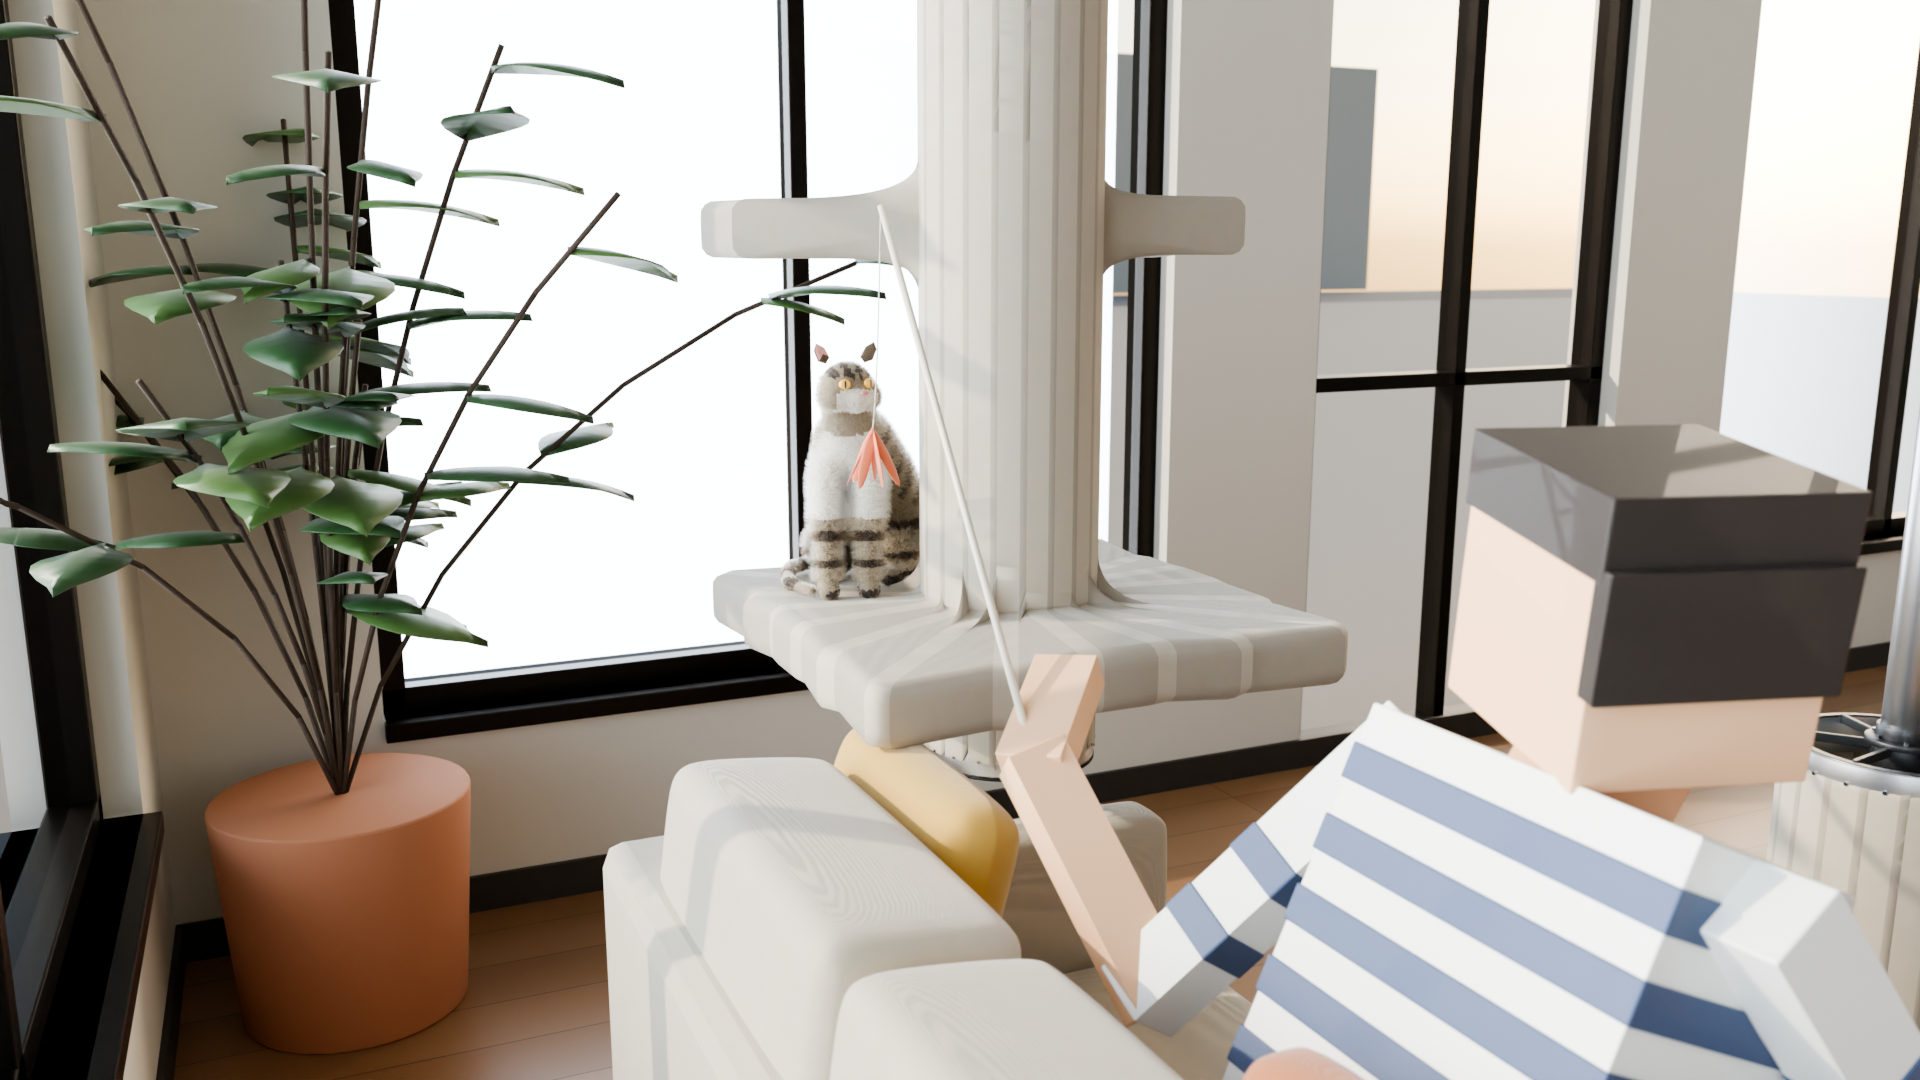
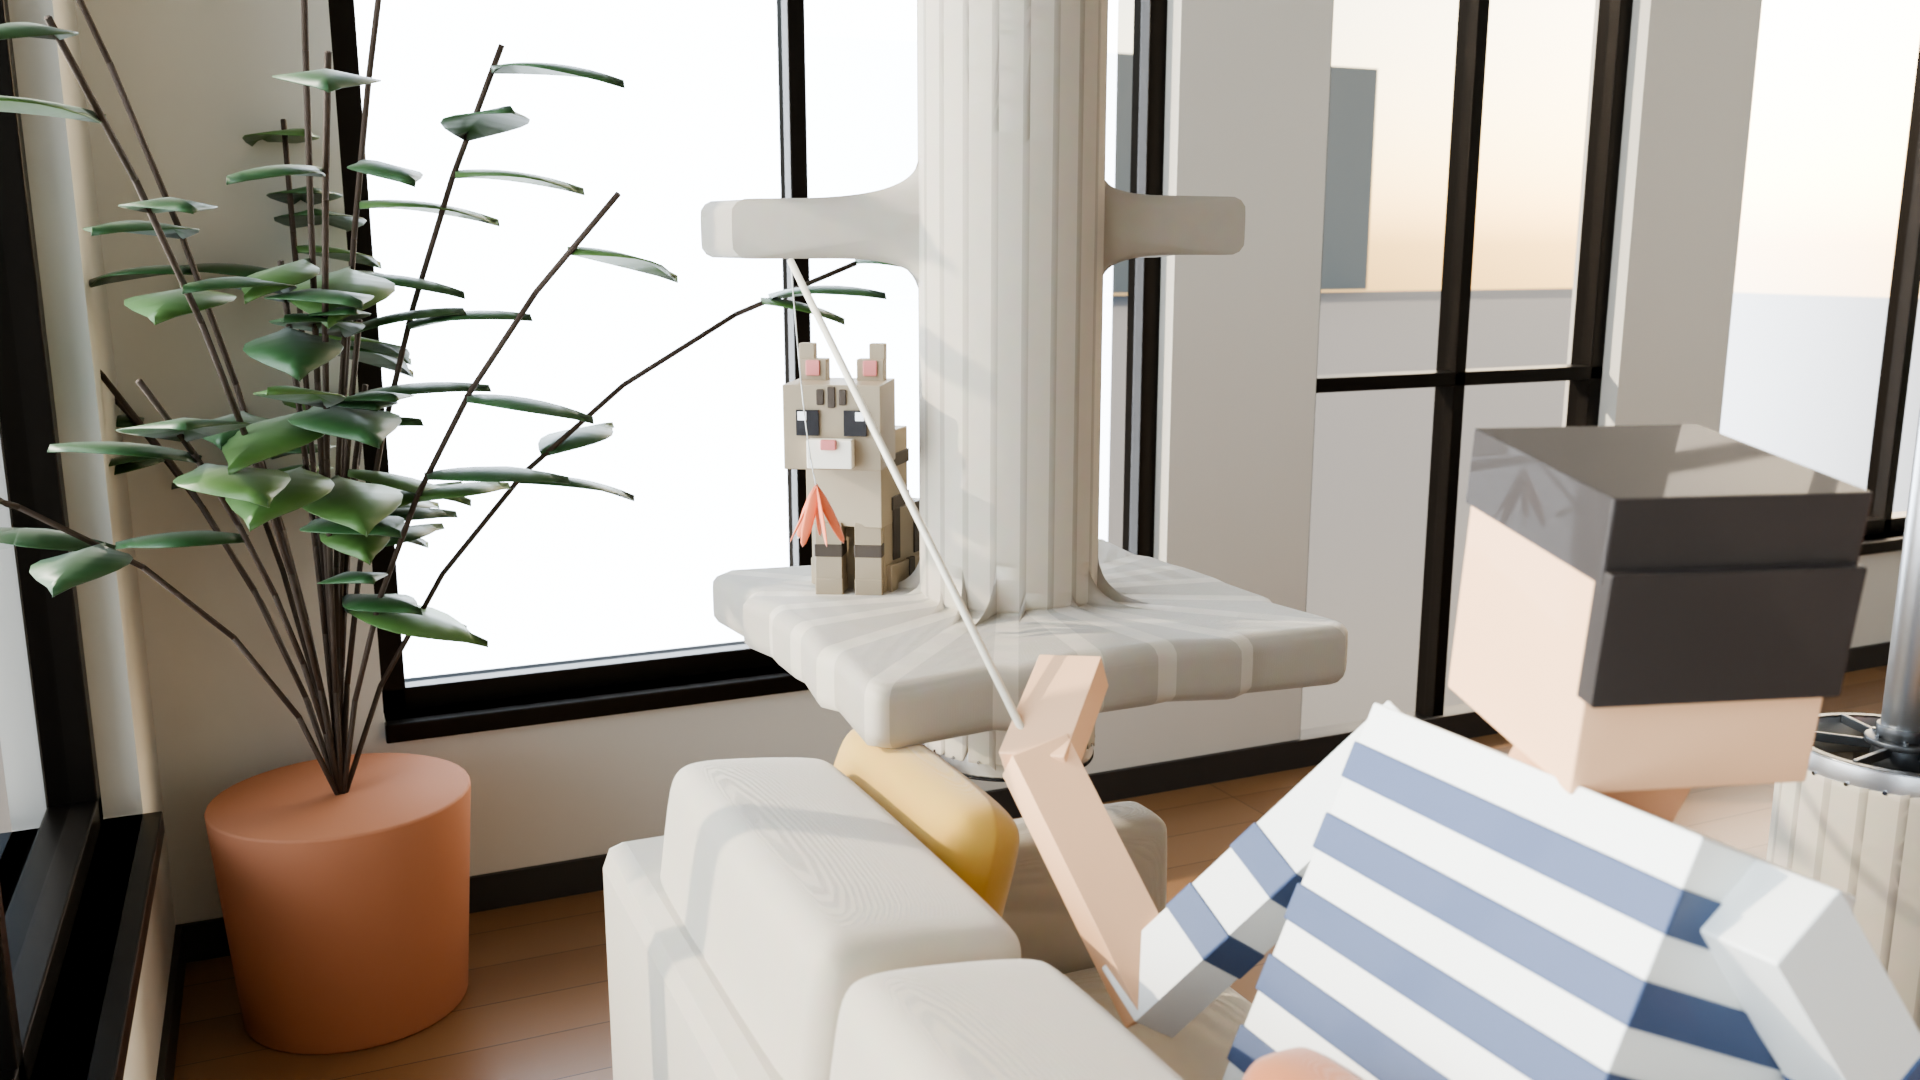
猫咖效果图：H6、H5、H2 换成方块猫版（96 采样）
为了赶时间后四张降到 96 采样（降噪后看不出差别），文档记下每张的采样数；H4 轴测还在渲，目录里那张暂时仍是毛绒猫版。

Claude-Session: https://claude.ai/code/session_01RPazAds1zzWE1gxq73WKm6

Changed region(s): [[0.4062, 0.2444, 0.5, 0.5806], [0.5, 0.55, 0.5312, 0.6722], [0.5625, 0.6111, 0.5938, 0.6417]]

diff --git a/项目二_单元建模.md b/项目二_单元建模.md
@@ -168,7 +168,7 @@ Lab 2-15 现在画的是 §2 那张表里的上夹环、下夹环、伸缩吊杆
 | 文件 | 是什么 |
 |---|---|
 | `项目二_单元建模/猫咖效果图.blend` | Blender 4.5 LTS 场景（约 5 MB）。六个机位都在「灯光与机位」集合里，H4 轴测要隐去「近墙」「天花」两个集合（渲染脚本会自动做） |
-| `项目二_单元建模/效果图/` | 六张图：H1 一点透视（窗前的沙发与猫）· H2 两点透视（整间房）· H3 过肩（看有顶台里的黑猫）· H4 轴测剖切（整间房）· H5 摸奶牛猫与拍照 · H6 逗窗边有顶台里的狸花。1920 × 1080（H4 为 1600 × 1200），Cycles 160 采样 + 降噪，容器里纯 CPU 渲 |
+| `项目二_单元建模/效果图/` | 六张图：H1 一点透视（窗前的沙发与猫）· H2 两点透视（整间房）· H3 过肩（看有顶台里的黑猫）· H4 轴测剖切（整间房）· H5 摸奶牛猫与拍照 · H6 逗窗边有顶台里的狸花。1920 × 1080（H4 为 1600 × 1200），Cycles + 降噪，H1、H3 用 160 采样，其余四张为了赶时间用 96 采样（降噪后看不出差别），容器里 4 核纯 CPU 渲，1920 px 一张 160 采样约 17 分钟、96 采样约 9 分钟 |
 | `scripts/unit-blender/cafe-export.mjs` | 跑台架同一套仿真，`scan` 扫一遍时间轴挑一刻，`export` 把那一刻导出（单元外皮的世界坐标网格、机构高度、家具、每个人的骨架与方块人几何、每只猫的方块猫几何与头的枢轴） |
 | `scripts/unit-blender/cafe_scene.py` | 搭场景：房间、单元、家具、人、猫、小物、光和机位，存 .blend |
 | `scripts/unit-blender/cafe_figures.py` | 人与猫：台架同一副方块人、方块猫（几何由导出脚本用站上的 `figureParts` / `catRig` 导出），这里上材质、按手势转胳膊上的块、让逗猫棒前那只猫的头转向羽毛 |
